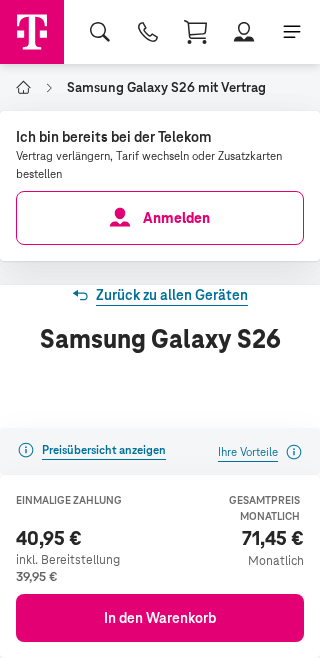
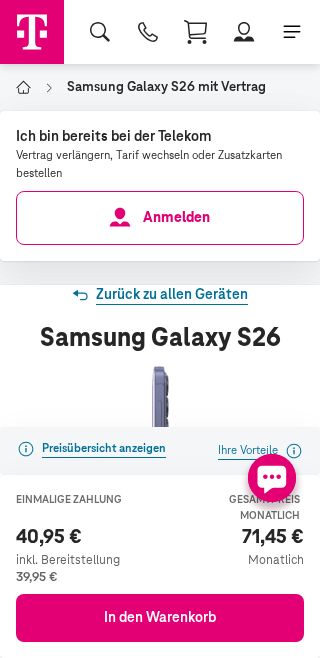
Finished implementation

diff --git a/src/ollama_labelling.py b/src/ollama_labelling.py
@@ -1,0 +1,91 @@
+import os
+import time
+import base64
+import requests
+import io
+import logging
+import concurrent.futures
+from PIL import Image
+
+logger = logging.getLogger("omniparser")
+
+class OllamaRegionLabeler:
+    """Label detected UI regions using an external Ollama vision model."""
+
+    def __init__(self, base_url: str, model_name: str):
+        self.base_url = base_url.rstrip('/')
+        self.model_name = model_name
+        # Allow configuration of max workers for parallel HTTP requests
+        self.max_workers = int(os.environ.get("OLLAMA_MAX_WORKERS", "4"))
+
+    def label_regions(self, image: Image.Image, boxes: list[list[float]]) -> list[dict]:
+        """Crop each bounding box from the image and generate a label using Ollama.
+
+        Args:
+            image: Full screenshot PIL Image.
+            boxes: List of [xmin, ymin, xmax, ymax] boxes.
+
+        Returns:
+            List of dicts with keys: id, label, bbox, center.
+        """
+        logger.info("Ollama labelling started for %d crops using model %s (max concurrent requests: %d)", 
+                    len(boxes), self.model_name, self.max_workers)
+        
+        elements = []
+        prompt = "Describe this UI element in a few words, representing its function (e.g., 'search bar', 'submit button')."
+
+        def process_box(i, box):
+            xmin, ymin, xmax, ymax = map(int, box)
+            
+            # Crop the bounding box
+            cropped_img = image.crop((xmin, ymin, xmax, ymax))
+            
+            # Convert PIL Image to Base64 JPEG string
+            img_byte_arr = io.BytesIO()
+            cropped_img.save(img_byte_arr, format='JPEG')
+            base64_encoded = base64.b64encode(img_byte_arr.getvalue()).decode('utf-8')
+
+            # Send request to Ollama's generate API
+            payload = {
+                "model": self.model_name,
+                "prompt": prompt,
+                "images": [base64_encoded],
+                "stream": False
+            }
+
+            label = "unknown"
+            try:
+                logger.debug("Sending box %d to Ollama using model %s", i, self.model_name)
+                start_time = time.time()
+                response = requests.post(f"{self.base_url}/api/generate", json=payload, timeout=600)
+                response.raise_for_status()
+                data = response.json()
+                label = data.get("response", "").strip()
+                elapsed = time.time() - start_time
+                logger.info("Ollama labelled box %d as '%s' in %.2fs", i, label, elapsed)
+            except Exception as e:
+                logger.error("Failed to generate label for box %d: %s", i, e)
+
+            cx = (xmin + xmax) / 2.0
+            cy = (ymin + ymax) / 2.0
+
+            return {
+                "id": i,
+                "label": label,
+                "bbox": [xmin, ymin, xmax, ymax],
+                "center": [cx, cy]
+            }
+
+        # Execute API requests in parallel
+        with concurrent.futures.ThreadPoolExecutor(max_workers=self.max_workers) as executor:
+            futures = [executor.submit(process_box, i, box) for i, box in enumerate(boxes)]
+            for future in concurrent.futures.as_completed(futures):
+                try:
+                    elements.append(future.result())
+                except Exception as e:
+                    logger.error("Unexpected error processing a box: %s", e)
+
+        # ThreadPool completion order isn't guaranteed, so re-sort by the original ID
+        elements.sort(key=lambda x: x["id"])
+
+        return elements

diff --git a/src/parser.py b/src/parser.py
@@ -19,6 +19,7 @@ from thefuzz import fuzz
 from models import load_models
 from detection import RegionDetector
 from labelling import RegionLabeler
+from ollama_labelling import OllamaRegionLabeler
 from ocr import RegionOCR
 
 logger = logging.getLogger("omniparser")
@@ -42,12 +43,21 @@ class OmniParser:
             yolo_model=models["yolo_model"],
             device=models["device"],
         )
-        self.labeler = RegionLabeler(
-            processor=models["processor"],
-            caption_model=models["caption_model"],
-            device=models["device"],
-            dtype=models["dtype"],
-        )
+        
+        labelling_engine = os.environ.get("LABELLING_ENGINE", "florence").lower()
+        if labelling_engine == "ollama":
+            self.labeler = OllamaRegionLabeler(
+                base_url=os.environ.get("OLLAMA_BASE_URL", "http://host.docker.internal:11435"),
+                model_name=os.environ.get("OLLAMA_MODEL", "qwen3-vl:8b")
+            )
+        else:
+            self.labeler = RegionLabeler(
+                processor=models["processor"],
+                caption_model=models["caption_model"],
+                device=models["device"],
+                dtype=models["dtype"],
+            )
+
         self.ocr = RegionOCR(
             processor=models["processor"],
             caption_model=models["caption_model"],